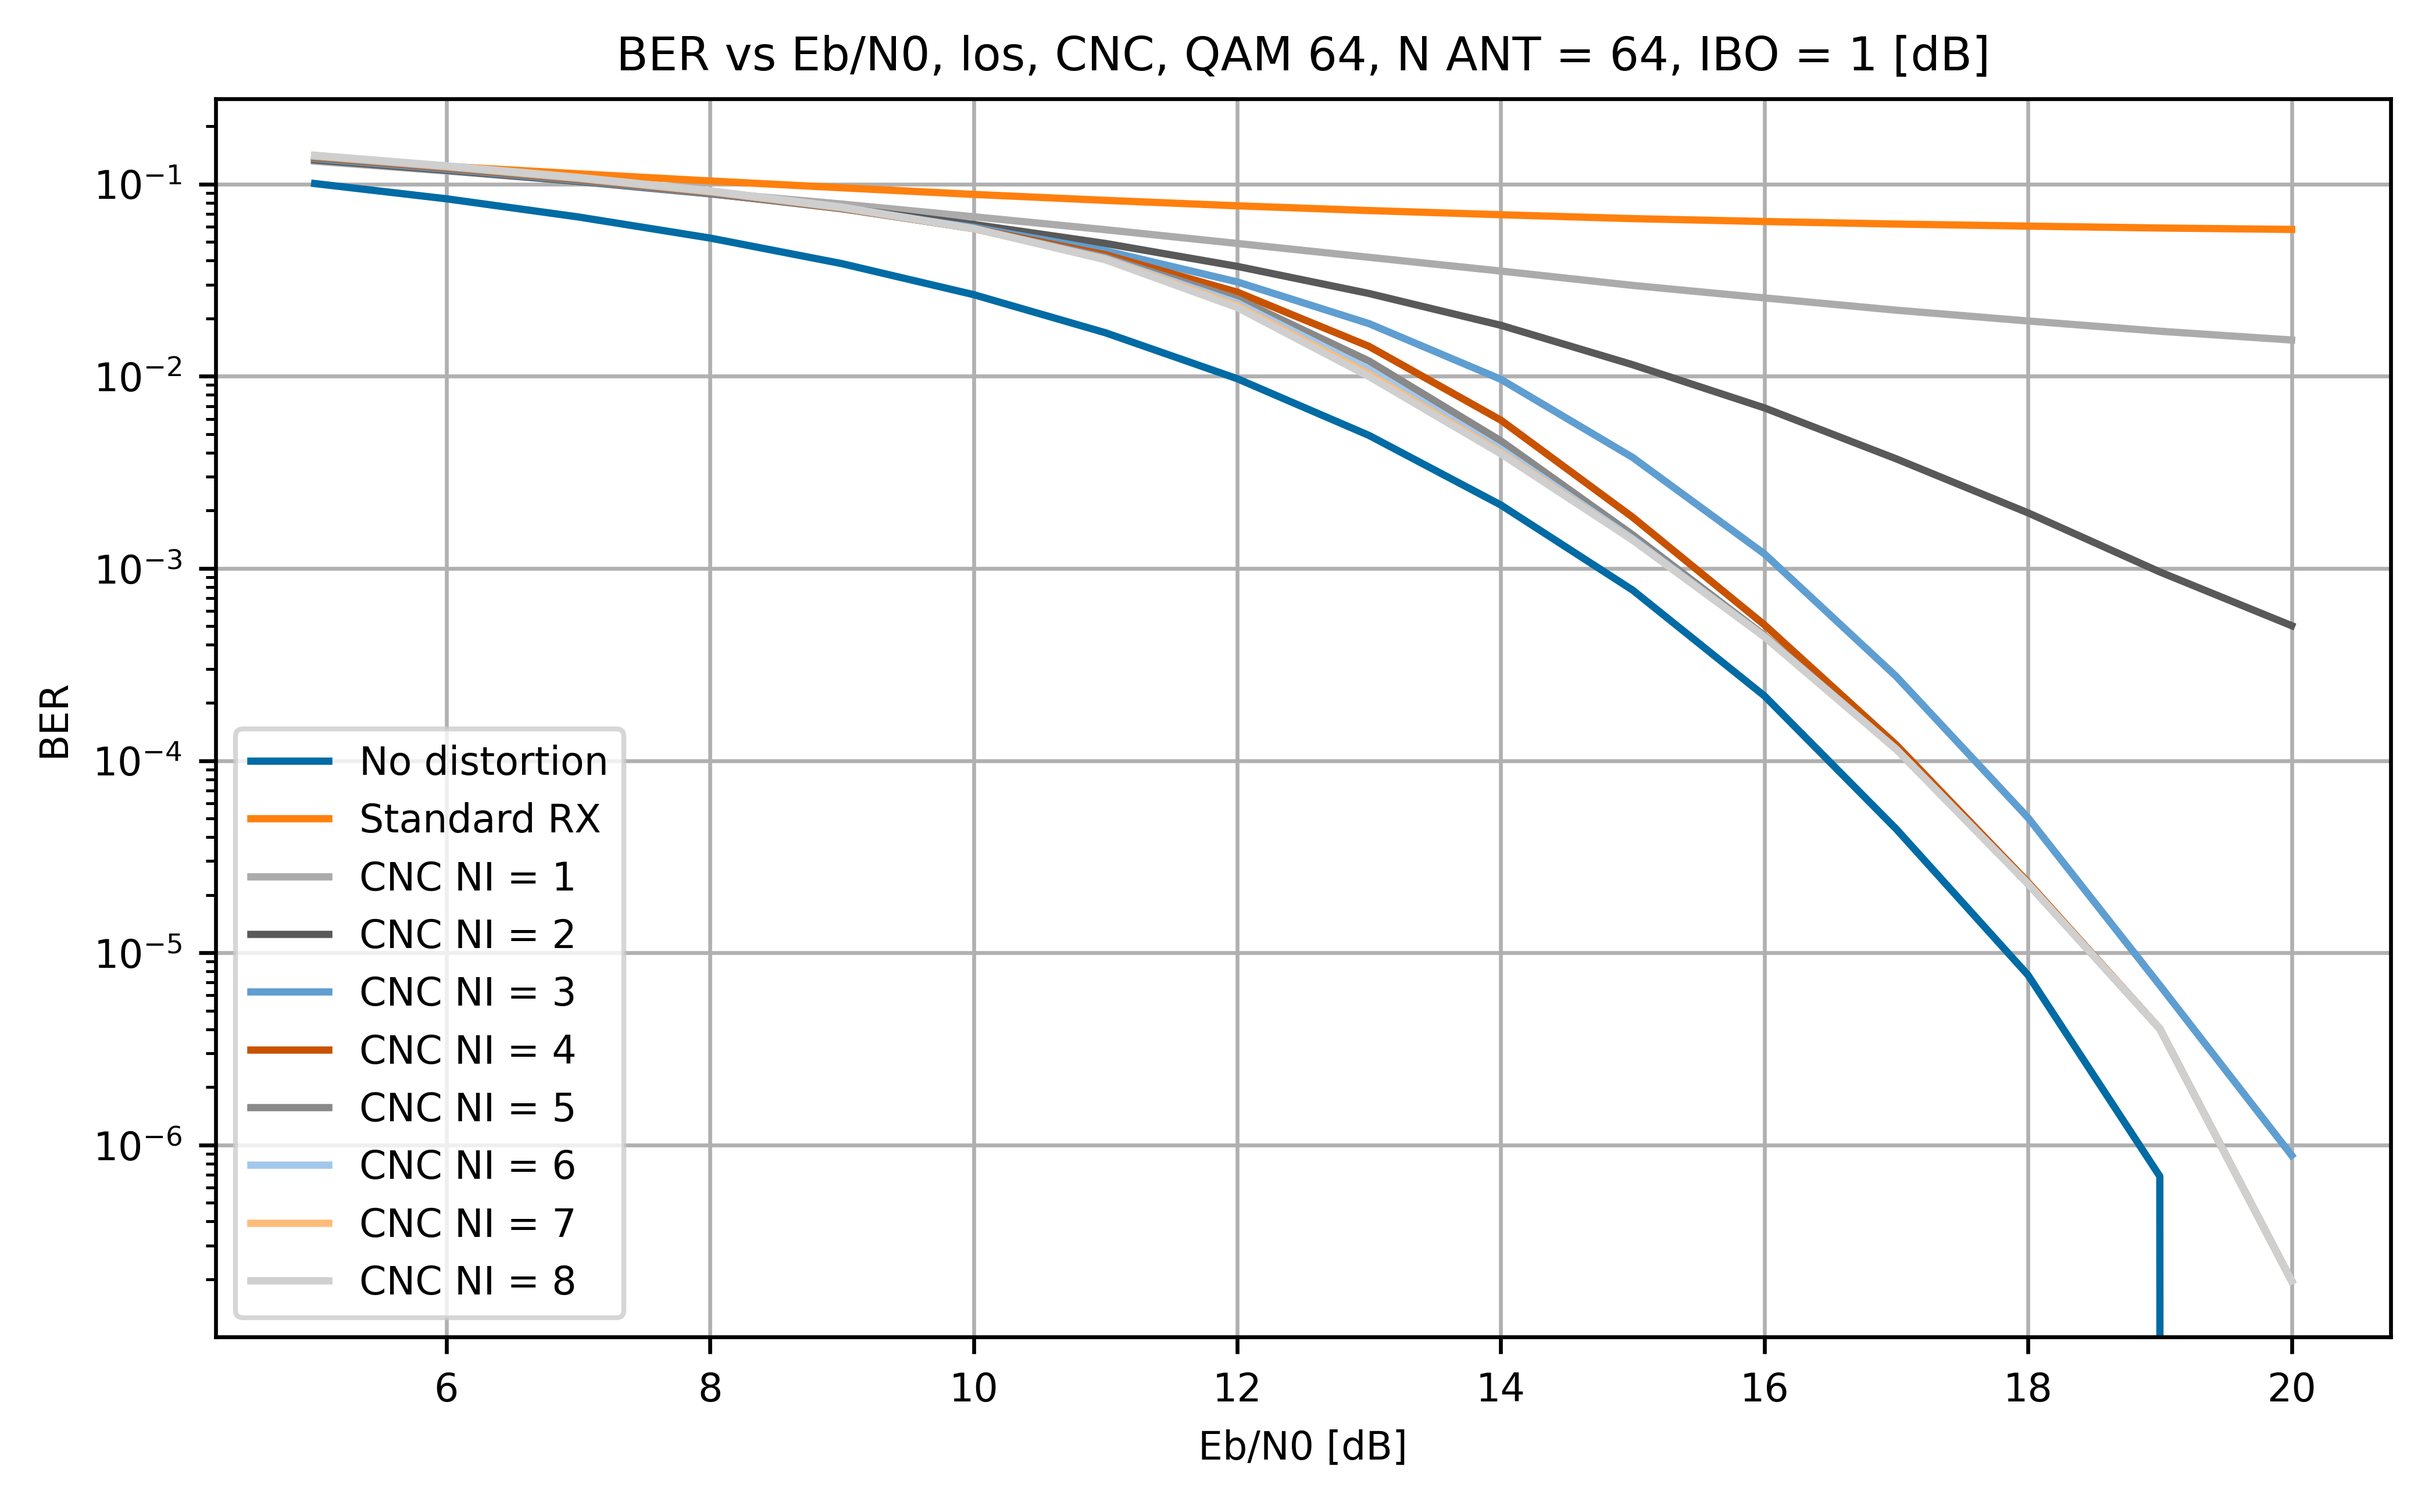
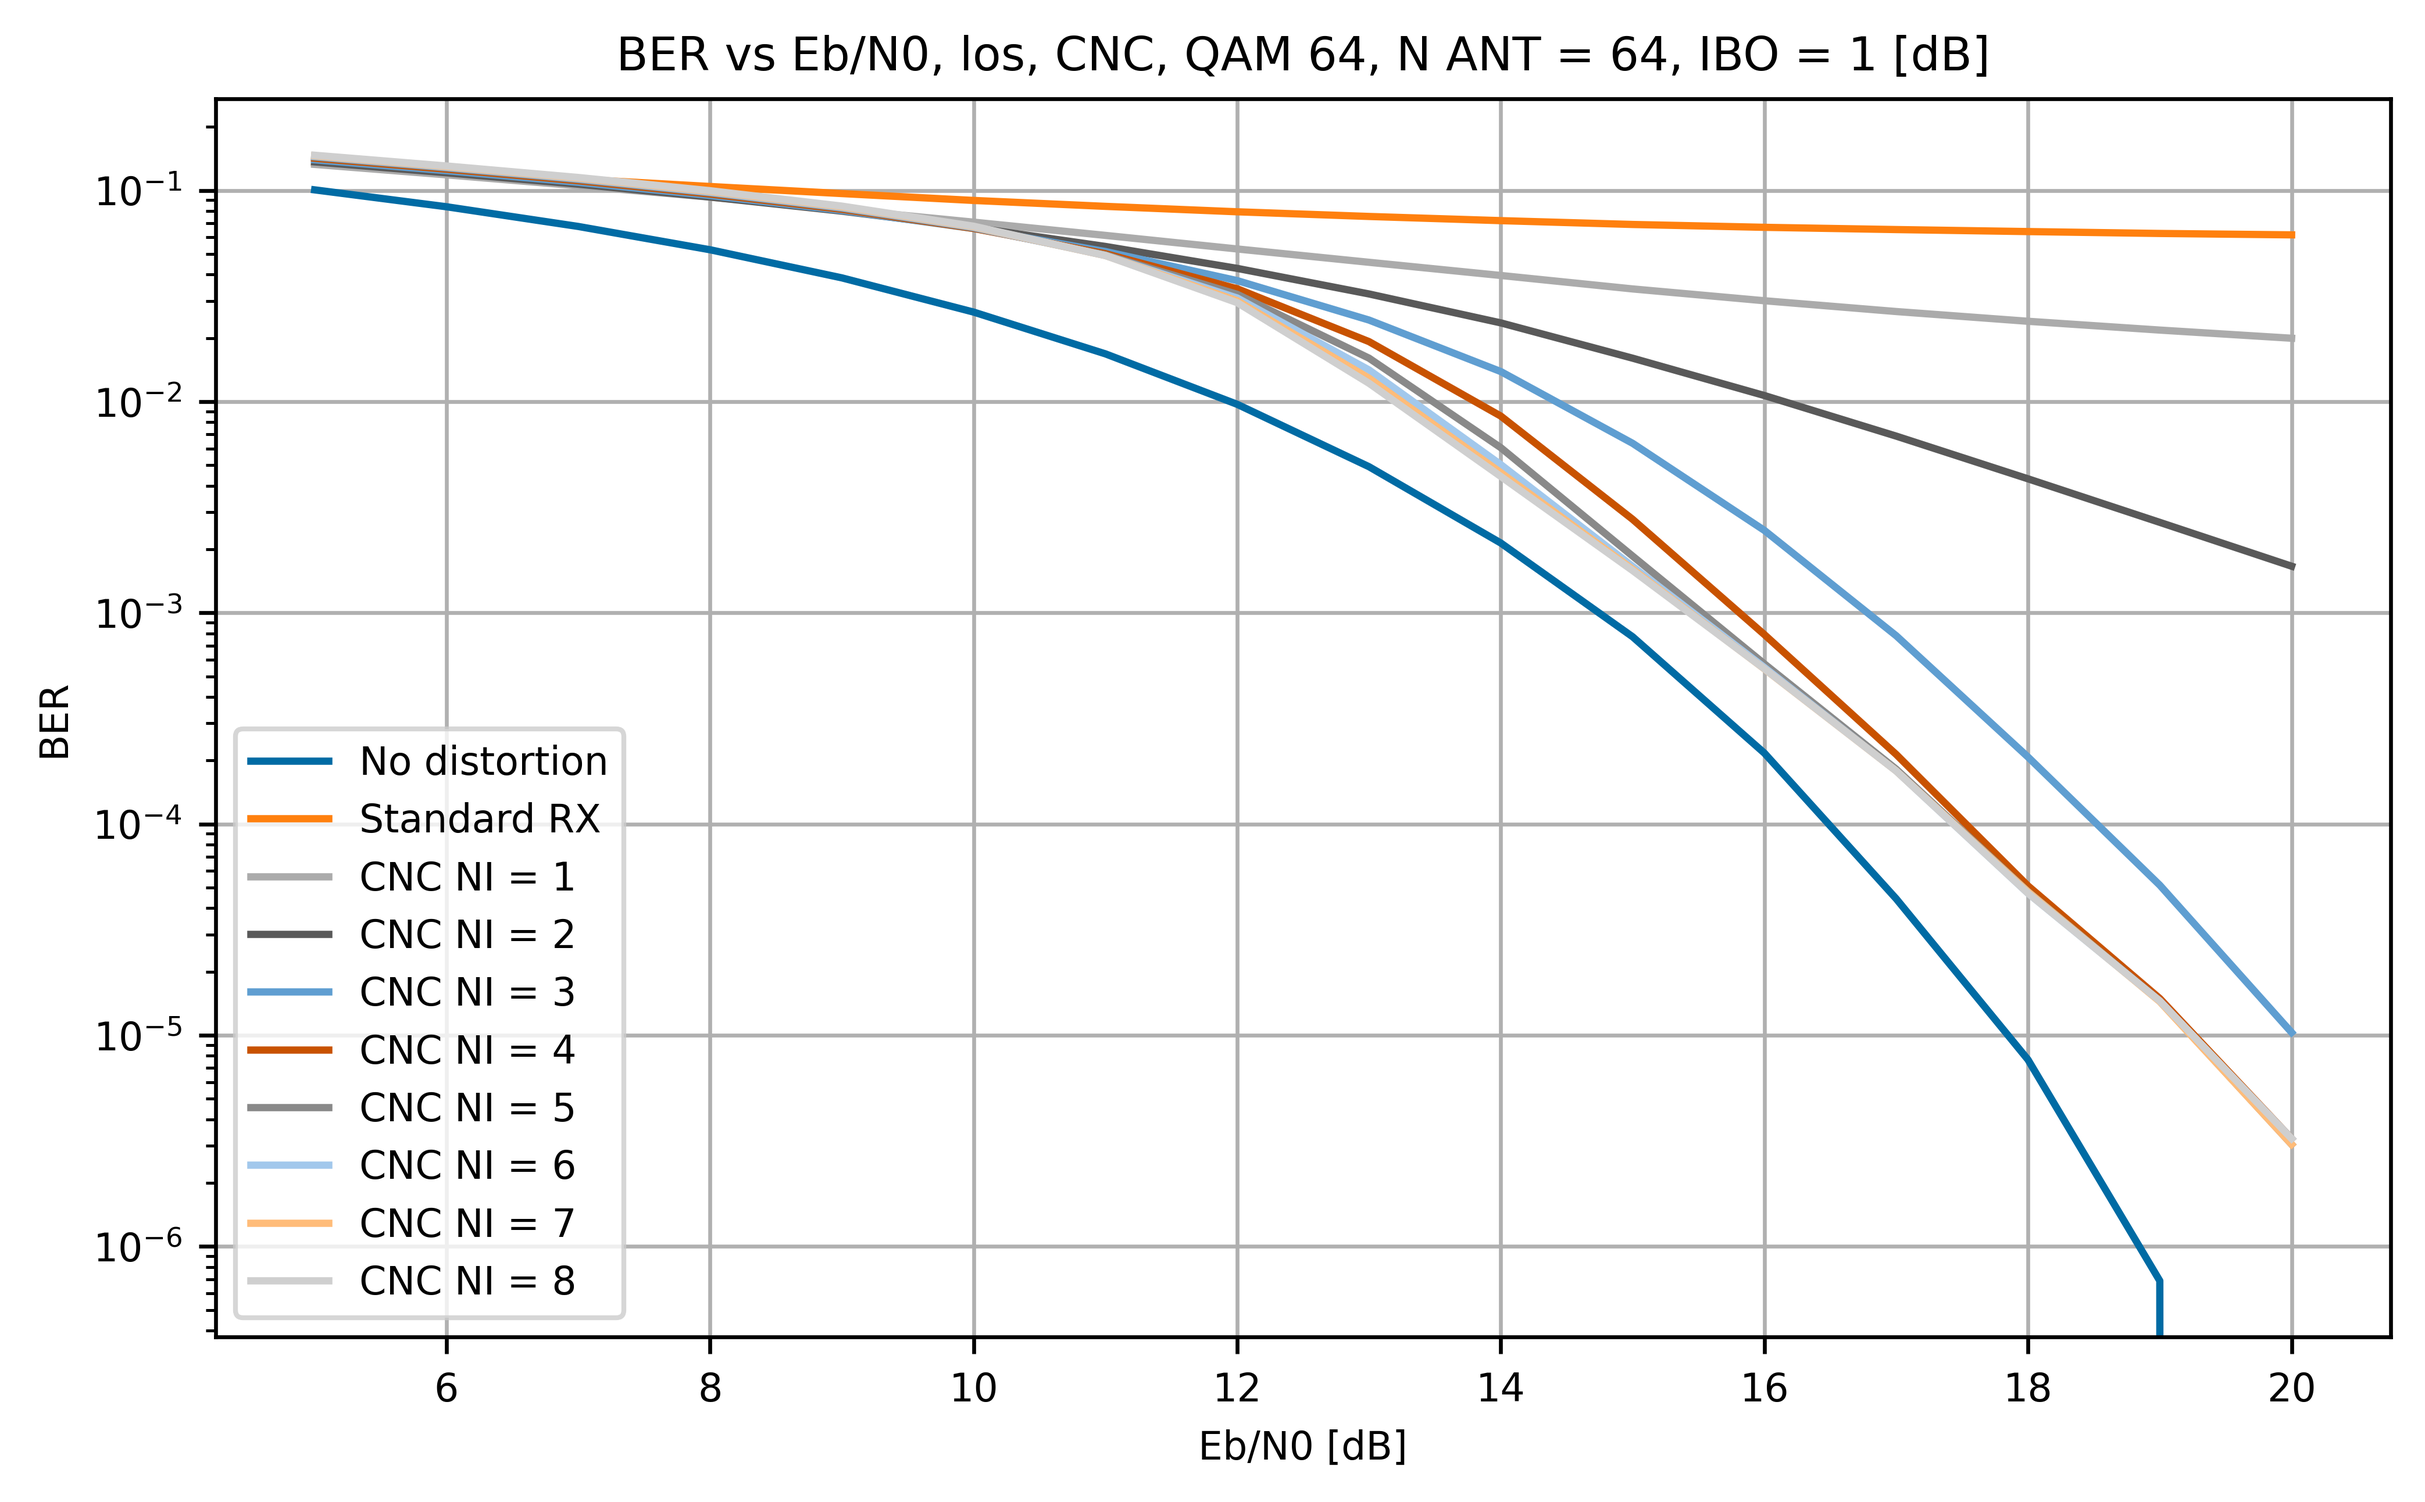
new resuslts for convergence analysis

diff --git a/main_mp_clipping_noise_cancellation/main_mp_miso_cnc_ber_vs_ebn0.py b/main_mp_clipping_noise_cancellation/main_mp_miso_cnc_ber_vs_ebn0.py
@@ -58,8 +58,8 @@ if __name__ == '__main__':
 
     my_mod = modulation.OfdmQamModem(constel_size=constel_size, n_fft=n_fft, n_sub_carr=n_sub_carr, cp_len=cp_len)
 
-    # my_distortion = distortion.SoftLimiter(0, my_mod.avg_sample_power)
-    my_distortion = distortion.Rapp(ibo_db=0, p_hardness=4.0, avg_samp_pow=my_mod.avg_sample_power)
+    my_distortion = distortion.SoftLimiter(0, my_mod.avg_sample_power)
+    # my_distortion = distortion.Rapp(ibo_db=0, p_hardness=4.0, avg_samp_pow=my_mod.avg_sample_power)
 
     my_tx = transceiver.Transceiver(modem=copy.deepcopy(my_mod), impairment=copy.deepcopy(my_distortion),
                                     center_freq=int(3.5e9),
@@ -87,7 +87,7 @@ if __name__ == '__main__':
                                                                  rx_transceiver=my_standard_rx, n_paths=8,
                                                                  max_delay_spread=1e-6)
 
-        chan_lst = [my_miso_los_chan]
+        chan_lst = [my_miso_los_chan, my_miso_two_path_chan, my_miso_rayleigh_chan]
         my_noise = noise.Awgn(snr_db=10, seed=1234)
 
         for my_miso_chan in chan_lst:

diff --git a/main_mp_clipping_noise_cancellation/main_mp_miso_mcnc_ber_vs_ebn0.py b/main_mp_clipping_noise_cancellation/main_mp_miso_mcnc_ber_vs_ebn0.py
@@ -89,7 +89,7 @@ if __name__ == '__main__':
                                                                  rx_transceiver=my_standard_rx, n_paths=8,
                                                                  max_delay_spread=1e-6)
 
-        chan_lst = [my_miso_los_chan]
+        chan_lst = [my_miso_two_path_chan, my_miso_rayleigh_chan]
         my_noise = noise.Awgn(snr_db=10, seed=1234)
 
         for my_miso_chan in chan_lst:
